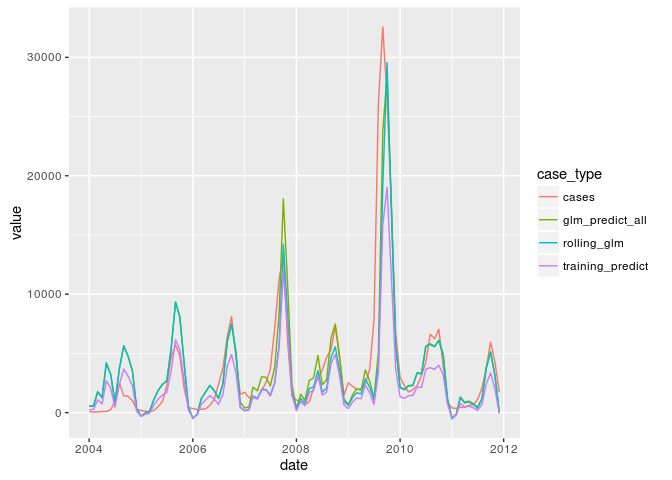
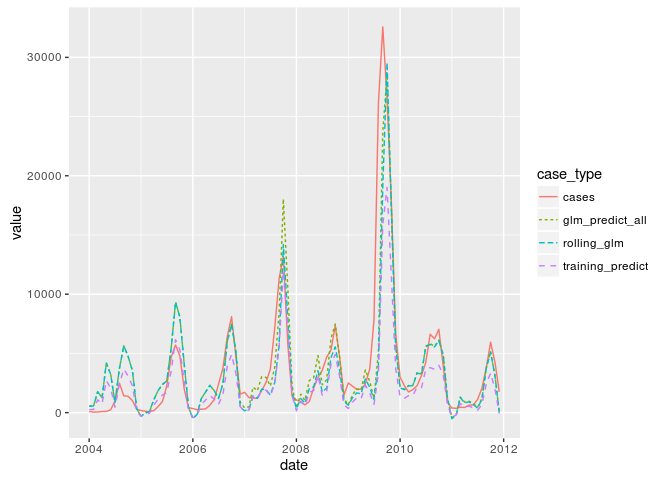
add linetype for more differences between lines

diff --git a/sismid_10-statistics_and_modeling_with_novel_data_streams/dengue/dengue.md b/sismid_10-statistics_and_modeling_with_novel_data_streams/dengue/dengue.md
@@ -300,7 +300,9 @@ dengue$training_predict <- predict(mod_training, dengue[, 'searches'])
 dengue_long <- dengue %>%
     gather(case_type, value, cases, glm_predict_all:rolling_glm)
 
-ggplot(data = dengue_long, aes(x = date, y = value, color = case_type)) + geom_line()
+ggplot(data = dengue_long, aes(x = date, y = value,
+                               color = case_type, linetype = case_type)) +
+    geom_line()
 ```
 
 ![](dengue_files/figure-html/unnamed-chunk-14-1.png)<!-- -->
